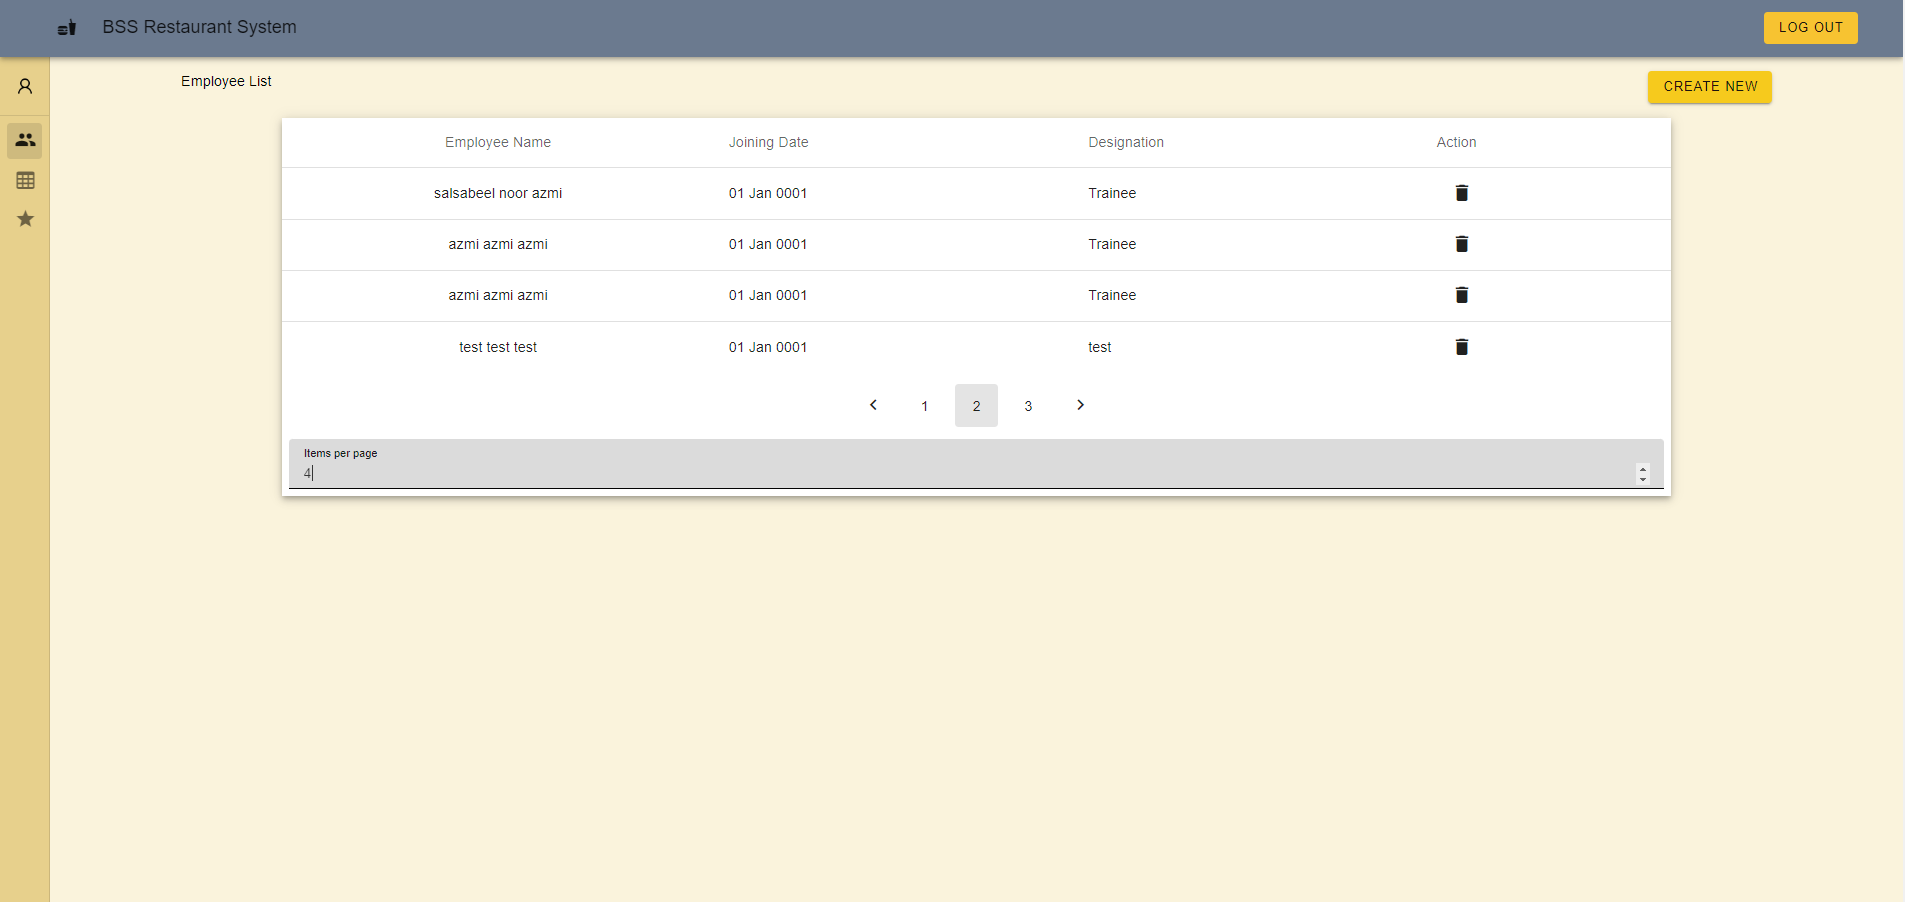
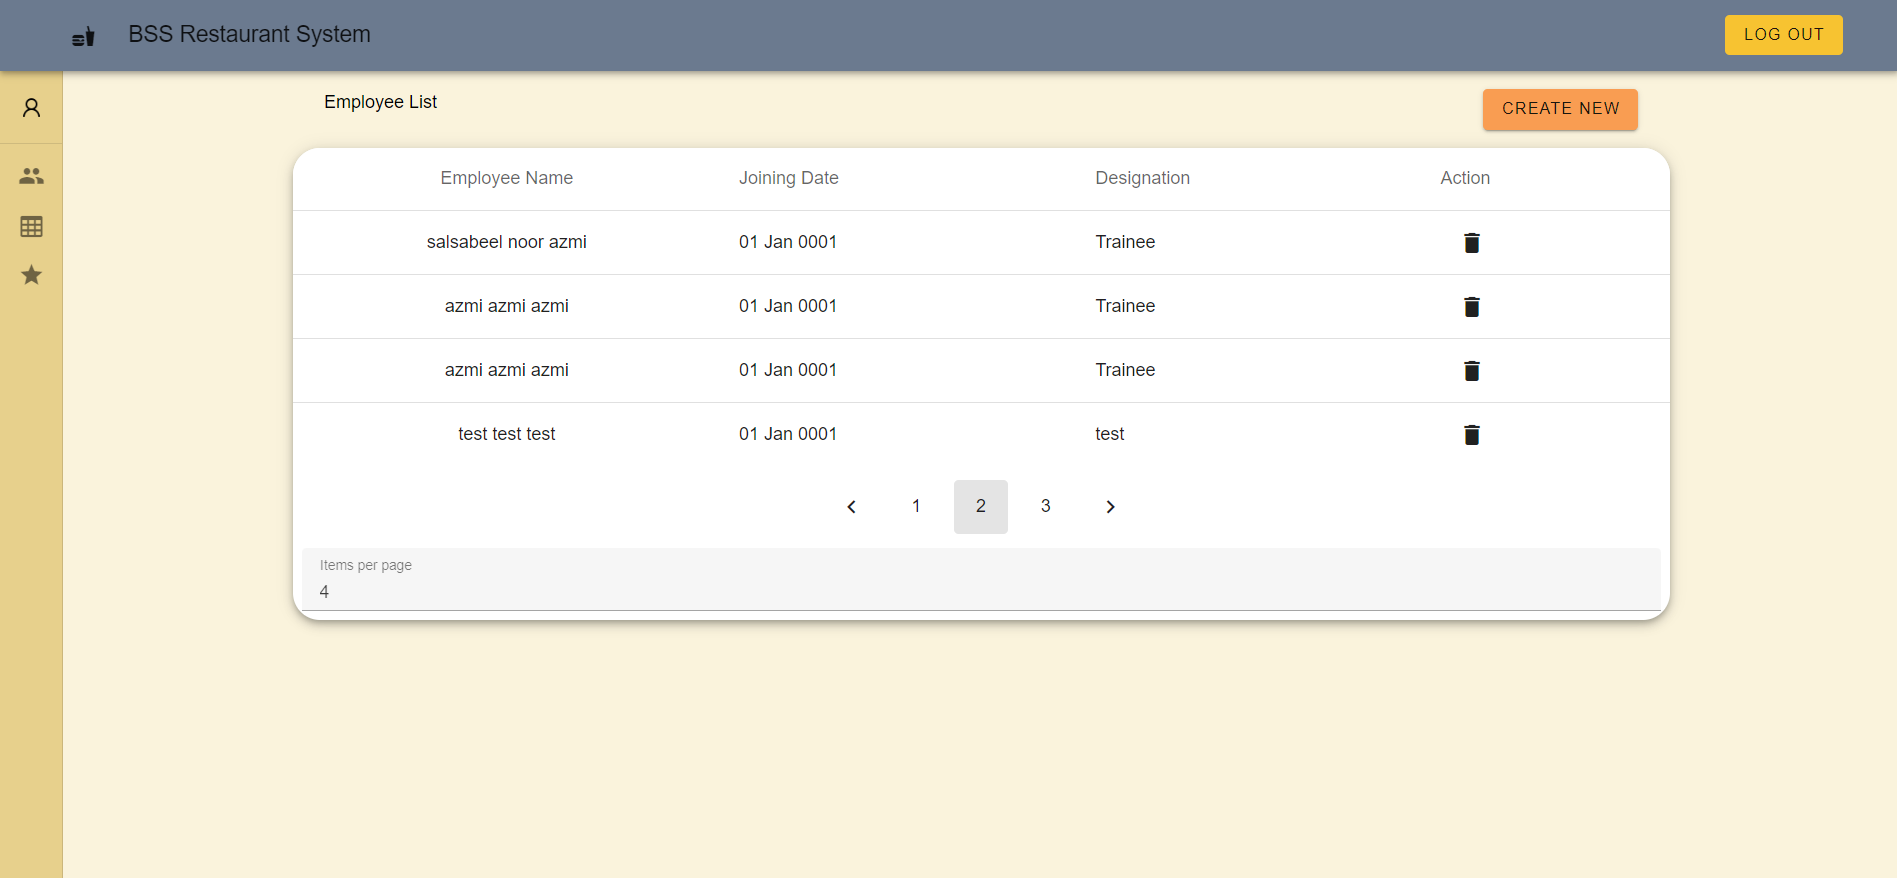
image and button color changed

Changed region(s): [[0.0, 0.0, 1.0, 1.0], [0.5598, 0.3075, 0.622, 0.4305], [0.7464, 0.3075, 0.7775, 0.3998]]

diff --git a/src/Views/EmployeeList.vue b/src/Views/EmployeeList.vue
@@ -1,67 +1,184 @@
 <template>
-  <v-container>
-    <v-row>
-      <v-col>Employee List</v-col>
+  <section class="list-view-container">
+    <v-container>
+      <v-row>
+        <v-col>Employee List</v-col>
 
-      <v-col class="d-flex justify-end"
-        ><v-btn @click="$router.push('/admin/add-employee')"
-          >Create New</v-btn
-        ></v-col
-      >
-    </v-row>
-  </v-container>
-  <v-data-table
-    elevation="12"
-    v-model:page="page"
-    :headers="headers"
-    :items="employees"
-    :items-per-page="itemsPerPage"
-    hide-default-footer
-    class="elevation-1 table"
-  >
-    <template v-slot:bottom>
-      <div class="text-center pt-2">
-        <v-pagination v-model="page" :length="pageCount"></v-pagination>
-        <v-text-field
-          :model-value="itemsPerPage"
-          class="pa-2"
-          label="Items per page"
-          type="number"
-          min="-1"
-          max="15"
-          hide-details
-          @update:model-value="itemsPerPage = parseInt($event, 10)"
-        ></v-text-field>
-      </div>
-    </template>
-  </v-data-table>
+        <v-col class="d-flex justify-end"
+          ><v-btn
+            class="create-btn"
+            @click="$router.push('/admin/add-employee')"
+            >Create New</v-btn
+          ></v-col
+        >
+      </v-row>
+    </v-container>
+    <v-data-table
+      v-model:page="page"
+      :headers="headers"
+      :items="employees"
+      :items-per-page="itemsPerPage"
+      hide-default-footer
+      class="elevation-5 table rounded-xl"
+    >
+      <template v-slot:bottom>
+        <div class="text-center pt-2">
+          <v-pagination v-model="page" :length="pageCount"></v-pagination>
+          <v-text-field
+            :model-value="itemsPerPage"
+            class="pa-2"
+            label="Items per page"
+            type="number"
+            min="-1"
+            max="15"
+            hide-details
+            @update:model-value="itemsPerPage = parseInt($event, 10)"
+          ></v-text-field>
+        </div>
+      </template>
+      <!-- <v-dialog v-if="dialogDelete" v-model="dialogDelete" max-width="500px">
+        <v-card>
+          <v-card-title class="text-h5"
+            >Are you sure you want to delete this item?</v-card-title
+          >
+          <v-card-actions>
+            <v-spacer></v-spacer>
+            <v-btn color="blue-darken-1" variant="text" @click="closeDelete"
+              >Cancel</v-btn
+            >
+            <v-btn
+              color="blue-darken-1"
+              variant="text"
+              @click="deleteItemConfirm"
+              >OK</v-btn
+            >
+            <v-spacer></v-spacer>
+          </v-card-actions>
+        </v-card>
+      </v-dialog> -->
+      <template v-slot:item.action="{ item }">
+        <v-btn
+          @click="deleteEmployee(item.key)"
+          icon="mdi-delete"
+          class="ma-1"
+          elevation="0"
+        >
+        </v-btn>
+      </template>
+    </v-data-table>
+    <p class="ma-3 text-red text-center" v-if="errorMessage">
+      {{ this.errorMessage }}
+    </p>
+  </section>
 </template>
 <script>
+import apiCall from "../api/apiInterface";
 export default {
   name: "EmployeeList",
   data() {
     return {
+      errorMessage: "",
+      dialogDelete: false,
       page: 1,
       headers: [
         {
-          align: "start",
+          align: "center",
           key: "name",
           sortable: false,
           title: "Employee Name",
         },
-        { title: "Joining Date", key: "joinDate" },
+        { title: "Joining Date", key: "joiningDate" },
         { title: "Designation", key: "designation" },
+        { title: "Action", key: "action", value: "action" },
       ],
       employees: [],
-      itemsPerPage: 10,
+      itemsPerPage: 4,
       pageCount: 0,
+      editedIndex: -1,
+      defaultItem: {
+        name: "",
+        joiningDate: "",
+        designation: "",
+      },
     };
+  },
+  watch: {
+    dialogDelete(val) {
+      val || this.closeDelete();
+    },
+  },
+  computed: {
+    pageCount() {
+      return Math.ceil(this.employees.length / this.itemsPerPage);
+    },
+  },
+  methods: {
+    async employeeList() {
+      try {
+        const response = await apiCall.get("api/Employee/datatable");
+        const rawData = response.data.data;
+        this.employees = rawData.map((employee) => ({
+          userid: employee.userId,
+          name: employee.name,
+          joiningDate: employee.joinDate,
+          designation: employee.designation,
+        }));
+        console.log(this.employees);
+      } catch (error) {
+        console.error(error);
+      }
+    },
+    async deleteEmployee(employeeId) {
+      // this.editedIndex = this.employees.indexOf(employee);
+      // this.editedItem = Object.assign({}, employee);
+      // this.dialogDelete = true;
+      console.log(employeeId);
+      try {
+        const response = await apiCall.delete(
+          `api/Employee/delete/${employeeId}`
+        );
+        console.log(response);
+        console.log(response.message);
+      } catch (e) {
+        this.errorMessage = e.message;
+        console.log(e.message);
+      }
+    },
+    deleteItemConfirm() {
+      this.employees.splice(this.editedIndex, 1);
+      this.closeDelete();
+    },
+    closeDelete() {
+      this.dialogDelete = false;
+      this.$nextTick(() => {
+        this.editedItem = Object.assign({}, this.defaultItem);
+        this.editedIndex = -1;
+      });
+    },
+    deleteItemConfirm() {
+      this.desserts.splice(this.editedIndex, 1);
+      this.closeDelete();
+    },
+  },
+  mounted() {
+    this.employeeList();
   },
 };
 </script>
 <style scoped>
+.list-view-container {
+  min-height: 100vh;
+  background-color: #faf3dc;
+}
+.create-btn {
+  color: rgb(26, 21, 13);
+  background-color: #f99d52;
+}
 .table {
-  width: 90%;
+  width: 75%;
   margin: auto;
+}
+.table tbody {
+  background-color: #917d3c !important;
 }
 </style>

diff --git a/src/Views/AddEmployee.vue b/src/Views/AddEmployee.vue
@@ -239,6 +239,7 @@ export default {
     handleImage(e) {
       const selectedImage = e.target.files[0];
       this.employeeInfo.image = selectedImage.name;
+      // this.employeeInfo.image = URL.createObjectURL(selectedImage);
       this.createBase64Image(selectedImage);
     },
     createBase64Image(fileObject) {
@@ -247,10 +248,10 @@ export default {
         console.log("base 64 working", e.target.result);
         this.employeeInfo.base64 = e.target.result;
       };
+      console.log(this.employeeInfo.base64);
       reader.readAsDataURL(fileObject);
     },
     async addEmployee() {
-      console.log(this.employeeInfo.genderId);
       try {
         const response = await apiCall.post(
           "api/Employee/create",

diff --git a/src/components/layout/Admin.vue b/src/components/layout/Admin.vue
@@ -23,12 +23,14 @@
 
       <v-list density="compact" nav>
         <v-list-item
-          prepend-icon="mdi-folder"
+          prepend-icon="mdi-account-multiple"
+          @click="$router.push('/admin')"
           title="Employee List"
           value="employeeList"
         ></v-list-item>
         <v-list-item
-          prepend-icon="mdi-account-multiple"
+          prepend-icon="mdi-table-large"
+          @click="$router.push('/admin/employee-table')"
           title="Employee Table"
           value="employeeShared"
         ></v-list-item>
@@ -77,6 +79,6 @@ export default {
 </script>
 <style scoped>
 .dashboard-container {
-  background-color: #ffd45f88;
+  background-color: #e5c877ce;
 }
 </style>

diff --git a/src/components/router/router.js b/src/components/router/router.js
@@ -4,6 +4,7 @@ import CommonLayout from '../../components/layout/Common.vue'
 import LogIn from '../../Views/LogIn.vue'
 import EmployeeList from '../../Views/EmployeeList.vue'
 import AddEmployee from '../../Views/AddEmployee.vue'
+import EmployeeTable from '../../Views/EmployeeTable.vue'
 import AuthRequired from '../../utils/AuthRequired'
  
 const routes = [
@@ -30,6 +31,11 @@ const routes = [
             name: 'addEmployee',
             component: AddEmployee
         },
+        {
+            path: 'employee-table',
+            name: 'employeeTable',
+            component: EmployeeTable
+        }
     ]
    },
    {

diff --git a/src/Views/EmployeeTable.vue b/src/Views/EmployeeTable.vue
@@ -1,0 +1,10 @@
+<template>
+  <h2>This is employee Table</h2>
+</template>
+<script>
+export default {
+  name: "EmployeeTable",
+};
+</script>
+<style scoped>
+</style>
